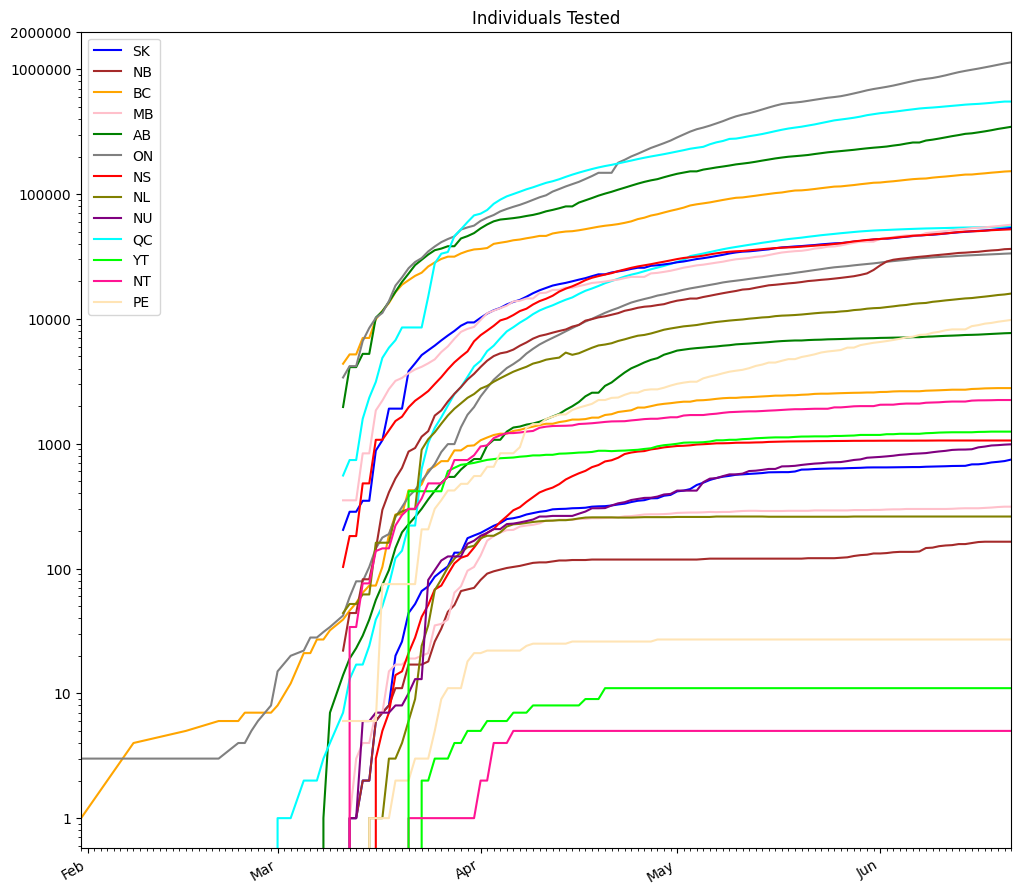
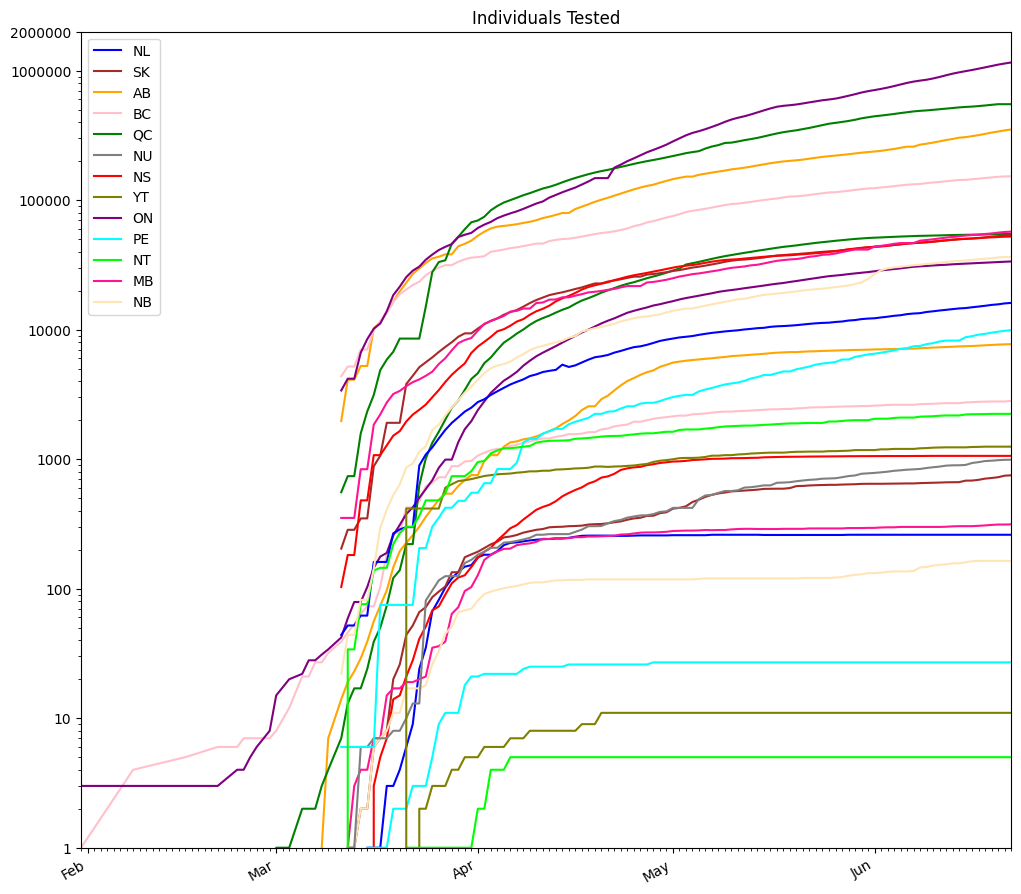
Refine the README.md.

diff --git a/province_wise_plots.py b/province_wise_plots.py
@@ -132,7 +132,7 @@ def make_line_plot_over_time(
     # Eliminate the margin on the x axis.
     plt.margins(x=0)
 
-    plt.ylim(top=y_tick_max)
+    plt.ylim(bottom=1, top=y_tick_max)
     plt.gca().set_yticks(y_ticks)
 
     plt.legend(handles, labels)
